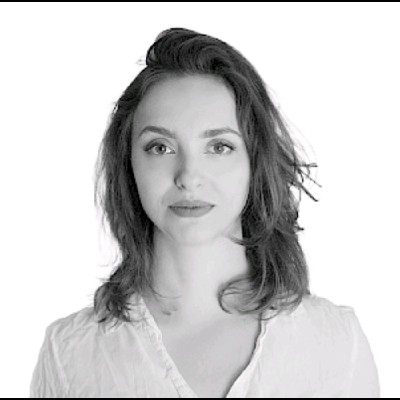
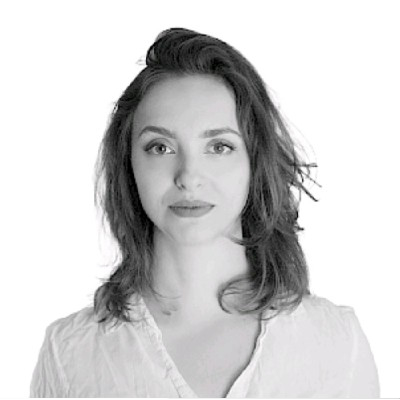
pics fix

Changed region(s): [[0.0, 0.99, 1.0, 1.0], [0.0, 0.0, 1.0, 0.03]]

diff --git a/src/content/team.ts b/src/content/team.ts
@@ -43,13 +43,13 @@ export const team: Member[] = [
    {
     name: "Philip Ahlers",
     role: { de: "Studentische Hilfskraft", en: "Student Assistant" },
-    photo: "/team/philip-ahlers.png", // ← Datei liegt unter public/team/philip-ahlers.jpg
+    photo: "/team/placeholder.svg", // ← Datei liegt unter public/team/philip-ahlers.jpg
     status: "current",
   },
    {
     name: "Philipp Wittig",
     role: { de: "Studentische Hilfskraft", en: "Student Assistant" },
-    photo: "/team/philipp-wittig.png", // ← Datei liegt unter public/team/philipp-wittig.jpg
+    photo: "/team/placeholder.svg", // ← Datei liegt unter public/team/philipp-wittig.jpg
     status: "current",
   },
 
@@ -103,9 +103,9 @@ export const team: Member[] = [
     status: "alumni",
   },
    {
-    name: "Tobis Bohn",
+    name: "Tobias Bohn",
     role: { de: "Ehemaliger Mitarbeiter", en: "Former team member" },
-    photo: "/team/former-member/tobis-bohn.jpg", // ← Datei liegt unter public/team/former-member/tobis-bohn.jpg
+    photo: "/team/former-member/tobias-bohn.jpg", // ← Datei liegt unter public/team/former-member/tobis-bohn.jpg
     status: "alumni",
   },
 ];
